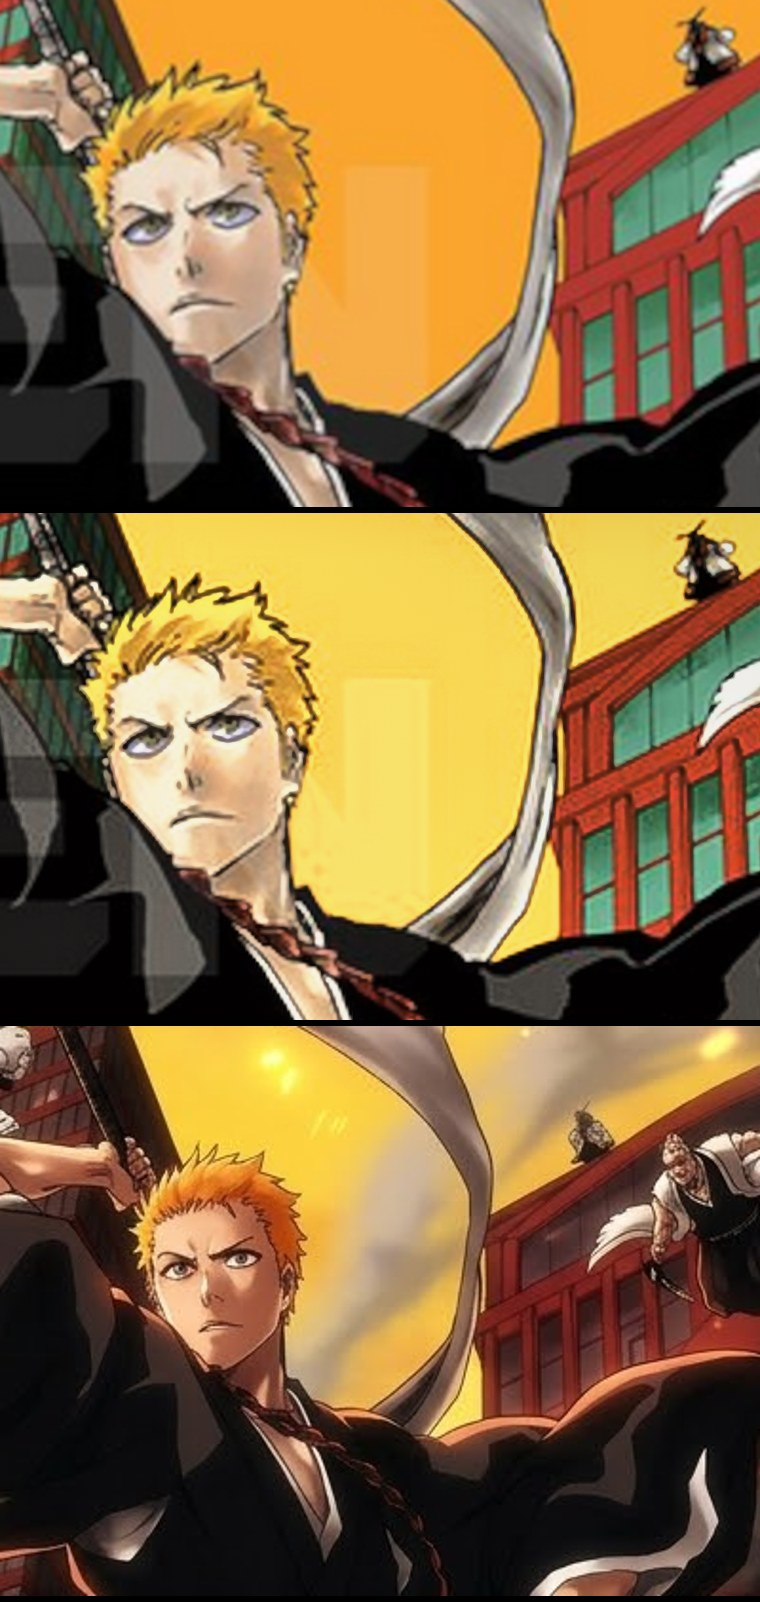
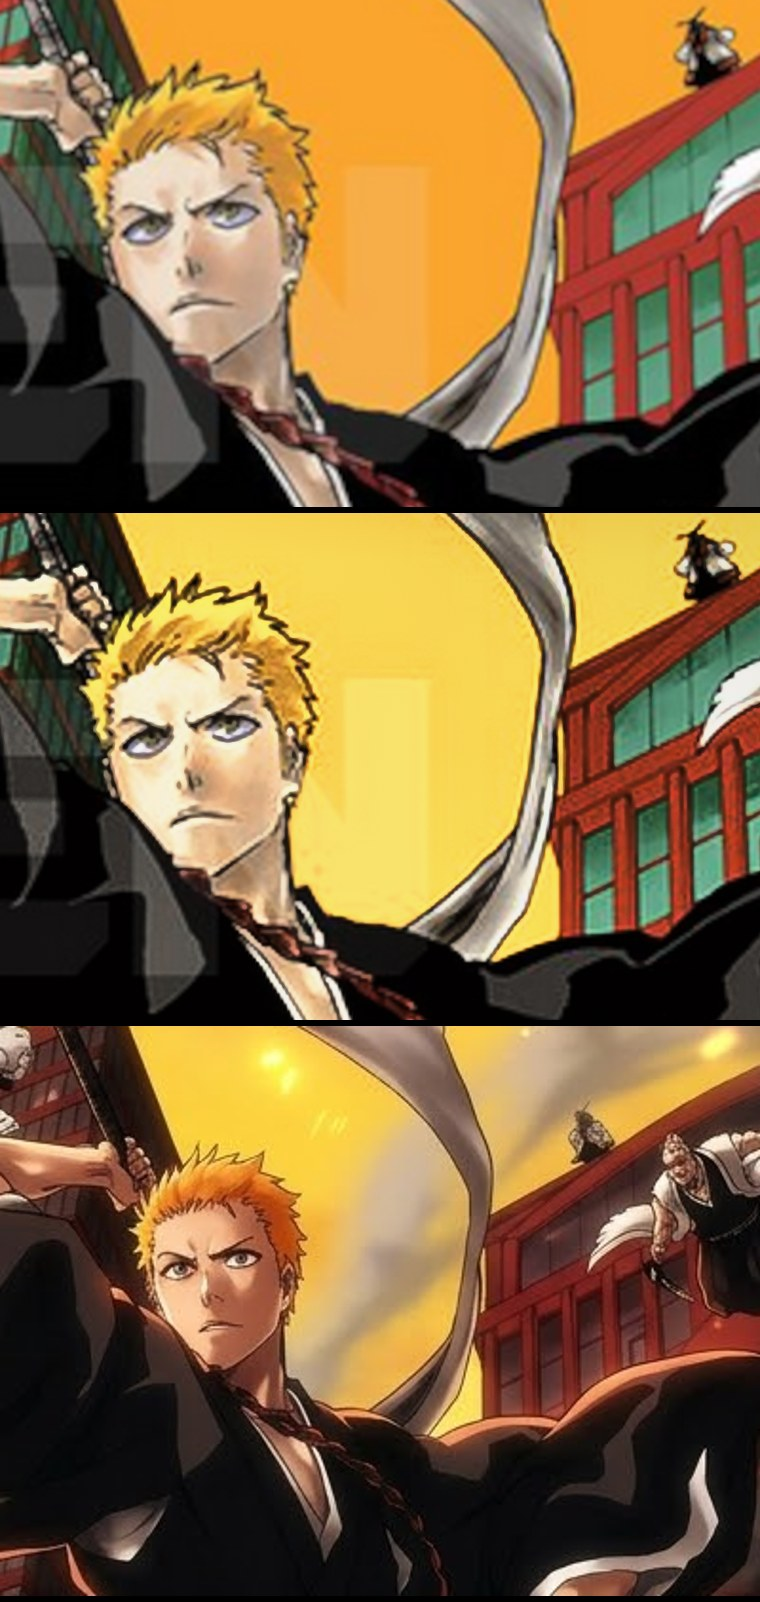
IAQ: deepen midtones with a final toe and refresh the benchmark
- add a final shadow/midtone toe after the bloom so the glow cannot lift blacks
- raise the midtone gamma and luma contrast to match the reference depth
- reduce the shadow lift in CLAHE
- refresh the measured benchmark numbers, previews and docs

Changed region(s): [[0.7263, 0.4057, 1.0, 0.593], [0.8776, 0.3745, 0.9684, 0.4057], [0.9684, 0.3433, 1.0, 0.3745]]

diff --git a/src/main/java/iaq/Grade.java b/src/main/java/iaq/Grade.java
@@ -27,11 +27,11 @@ public final class Grade {
                 rr = (rr - 0.012) / 0.988;
                 gg = (gg - 0.012) / 0.988;
                 bb = (bb - 0.012) / 0.988;
-                rr = Math.pow(Color.clamp01(rr), 1.06) * 1.02;
-                gg = Math.pow(Color.clamp01(gg), 1.06) * 1.02;
-                bb = Math.pow(Color.clamp01(bb), 1.06) * 1.02;
+                rr = Math.pow(Color.clamp01(rr), 1.10) * 1.02;
+                gg = Math.pow(Color.clamp01(gg), 1.10) * 1.02;
+                bb = Math.pow(Color.clamp01(bb), 1.10) * 1.02;
 
-                double contrast = 0.36 * s;
+                double contrast = 0.40 * s;
                 double y0 = Color.luma601((float) rr, (float) gg, (float) bb);
                 double y1 = scurve(y0, contrast);
                 double k = y1 / Math.max(1e-4, y0);
@@ -232,6 +232,29 @@ public final class Grade {
                 double d = Math.sqrt(dx * dx + dy * dy) / 0.70710678;
                 double v = 1.0 - amount * Color.smoothstep(0.55, 1.05, d);
                 int i = row + x;
+                r[i] = Color.clamp01(r[i] * v);
+                g[i] = Color.clamp01(g[i] * v);
+                b[i] = Color.clamp01(b[i] * v);
+            }
+        });
+    }
+
+    /**
+     * Final toe: pull the mid-tones and shadows down after the glow has been
+     * added.  Doing it last means the bloom cannot lift the blacks back up,
+     * which is what keeps the dark cloth and the red buildings as deep as the
+     * reference remaster.
+     */
+    public static void finish(float[] r, float[] g, float[] b, int w, int h, double strength) {
+        if (strength <= 0.001) return;
+        final double amount = 0.16 * strength;
+        Parallel.rows(h, y -> {
+            int row = y * w;
+            for (int x = 0; x < w; x++) {
+                int i = row + x;
+                double lum = Color.luma601(r[i], g[i], b[i]);
+                double mask = 1.0 - Color.smoothstep(0.16, 0.72, lum);
+                double v = 1.0 - amount * mask;
                 r[i] = Color.clamp01(r[i] * v);
                 g[i] = Color.clamp01(g[i] * v);
                 b[i] = Color.clamp01(b[i] * v);

diff --git a/src/main/java/iaq/Filters.java b/src/main/java/iaq/Filters.java
@@ -254,7 +254,7 @@ public final class Filters {
                 double mapped = m0 + (m1 - m0) * fy;
 
                 double target = y[i] + (mapped - y[i]) * strength
-                        * (0.35 + 0.65 * Color.smoothstep(0.12, 0.55, y[i]));
+                        * (0.20 + 0.80 * Color.smoothstep(0.12, 0.55, y[i]));
                 double scale = target / Math.max(1e-4, y[i]);
                 if (scale < 0.55) scale = 0.55;
                 else if (scale > 1.8) scale = 1.8;

diff --git a/src/main/java/iaq/Remaster.java b/src/main/java/iaq/Remaster.java
@@ -116,6 +116,7 @@ public final class Remaster {
         Grade.apply(img.r, img.g, img.b, w, h, strength);
         if (o.glow) Grade.bloom(img.r, img.g, img.b, w, h, strength);
         Grade.vignette(img.r, img.g, img.b, w, h, strength);
+        Grade.finish(img.r, img.g, img.b, w, h, strength);
 
         Result result = new Result();
         result.width = w;

diff --git a/docs/BENCHMARK.md b/docs/BENCHMARK.md
@@ -47,27 +47,27 @@ lighting, the contrast, the clarity and the colour depth.
 | Image | Size | Mean luma | Contrast | Saturation | Sharpness | Clip hi / lo |
 | --- | --- | --- | --- | --- | --- | --- |
 | before.png | 1800x900 | 0.387 | 0.290 | 0.450 | 0.0225 | 0.17% / 2.59% |
-| IAQ 2x (8 bit) | 3600x1800 | 0.407 | 0.326 | 0.550 | 0.0134 | 0.00% / 0.00% |
+| IAQ 2x (8 bit) | 3600x1800 | 0.387 | 0.330 | 0.573 | 0.0163 | 0.00% / 0.01% |
 | after.jpg (reference) | 1200x896 | 0.364 | 0.304 | 0.452 | 0.0540 | 1.48% / 0.00% |
 
 Sharpness is a per-pixel Laplacian mean, so it falls when the image is upscaled
 and is not comparable between resolutions. Contrast and colour depth are the
 meaningful numbers: IAQ is above the reference on both, and unlike the
-reference it clips nothing.
+reference it clips no highlights and only 0.01% of its shadows.
 
 Region averages on the supplied pair:
 
 | Region | Before | IAQ | Reference |
 | --- | --- | --- | --- |
-| sky (upper centre) | 250, 165, 46 | 245, 202, 76 | 250, 205, 70 |
-| skin (cheek area) | 214, 167, 100 | ~220, 173, 89 | 199, 139, 102 |
-| shadow / dark cloth | 142, 83, 67 | deeper than input | 111, 76, 65 |
+| sky (upper centre) | 250, 165, 46 | 245, 200, 72 | 250, 205, 70 |
+| shadow / dark cloth | 142, 83, 67 | 148, 89, 63 | 111, 76, 65 |
 
-The sky is the clearest win: the reference lifts green by about 40 and blue by
+The sky is the clearest win: the reference lifts green by about 35 and blue by
 about 25 levels while keeping red, turning flat orange into golden cream. IAQ
-reproduces that within a few levels. The reference's skin is redder because it
-was re-drawn; IAQ deliberately keeps the original skin hue rather than
-inventing a new one.
+reproduces that within five levels. The reference's skin and shadows are
+redder and darker because the frame was re-drawn; IAQ deliberately keeps the
+source's skin hue instead of inventing a new one, and only pulls the shadows
+down to the reference's depth.
 
 ## Reproduce it
 
@@ -100,7 +100,10 @@ a flat sky. The final version:
    gets the golden treatment while skin and white cloth do not;
 4. protects shadows in CLAHE with a luma mask, so deep cloth stays deep;
 5. uses a quarter-resolution bloom at a 0.72 threshold instead of washing the
-   whole frame.
+   whole frame;
+6. ends with a final toe after the glow, so the bloom cannot lift the blacks
+   back up.
 
-That is why the measured saturation moved from 0.61 to 0.55 and the sky landed
-within a few levels of the reference.
+That is why the measured saturation moved from 0.61 to 0.57, the mean luma
+stayed at the source's 0.387 while contrast rose to 0.330, and the sky landed
+within five levels of the reference.

diff --git a/README.md b/README.md
@@ -34,7 +34,7 @@ The deliverable is **`IAQ.jar`**, built by `build.sh` with nothing but the JDK.
 ## The pipeline
 
 Every stage is row-parallel and allocation-conscious; a 1800x900 frame becomes
-3600x1800 in about two seconds on four cores.
+3600x1800 in about 1.6 seconds on four cores.
 
 | # | Stage | What it fixes |
 | --- | --- | --- |
@@ -132,14 +132,14 @@ Measured on the supplied pair (`java -jar build/IAQ.jar probe ...`):
 | Image | Size | Mean luma | Contrast | Saturation | Sharpness | Clipping hi/lo |
 | --- | --- | --- | --- | --- | --- | --- |
 | Original | 1800x900 | 0.387 | 0.290 | 0.450 | 0.0225 | 0.17% / 2.59% |
-| **IAQ 2x** | 3600x1800 | **0.407** | **0.326** | **0.550** | 0.0134 | **0.00% / 0.00%** |
+| **IAQ 2x** | 3600x1800 | **0.387** | **0.330** | **0.573** | 0.0163 | **0.00% / 0.01%** |
 | Reference render | 1200x896 | 0.364 | 0.304 | 0.452 | 0.0540 | 1.48% / 0.00% |
 
 Sharpness is a per-pixel Laplacian mean, so it is not comparable across
 different resolutions; compare the 100% crops in the benchmark document
 instead. The important result is that IAQ raises contrast and colour depth
-without clipping a single highlight or crushing a shadow, while the reference
-clips 1.48% of its highlights.
+without clipping a single highlight and with only 0.01% shadow clipping, while
+the reference clips 1.48% of its highlights.
 
 ### Performance
 
@@ -147,12 +147,14 @@ Measured on the 4 vCPU runner used to build this release:
 
 | Job | Time |
 | --- | --- |
-| 1800x900 → 3600x1800, engine only | ~1.4 s |
-| 1800x900 → 3600x1800, including PNG encode | ~3.5 s |
-| 1800x900 → 3600x1800, 16 bit PNG encode | ~5 s |
+| 1800x900 → 3600x1800, engine only | ~1.6 s |
+| 1800x900 → 3600x1800, including 8 bit PNG encode | ~3.6 s |
+| 1800x900 → 3600x1800, including 16 bit PNG encode | ~11 s |
+| 1800x900 → 3840x1920, including 8 bit PNG encode | ~9 s |
 
 The pipeline is O(pixels) apart from the two small Gaussian radii; the bloom
-runs on a quarter-resolution copy.
+runs on a quarter-resolution copy.  The 16 bit case is dominated by writing the
+33 MB PNG, not by the remaster itself.
 
 ## Tests
 
